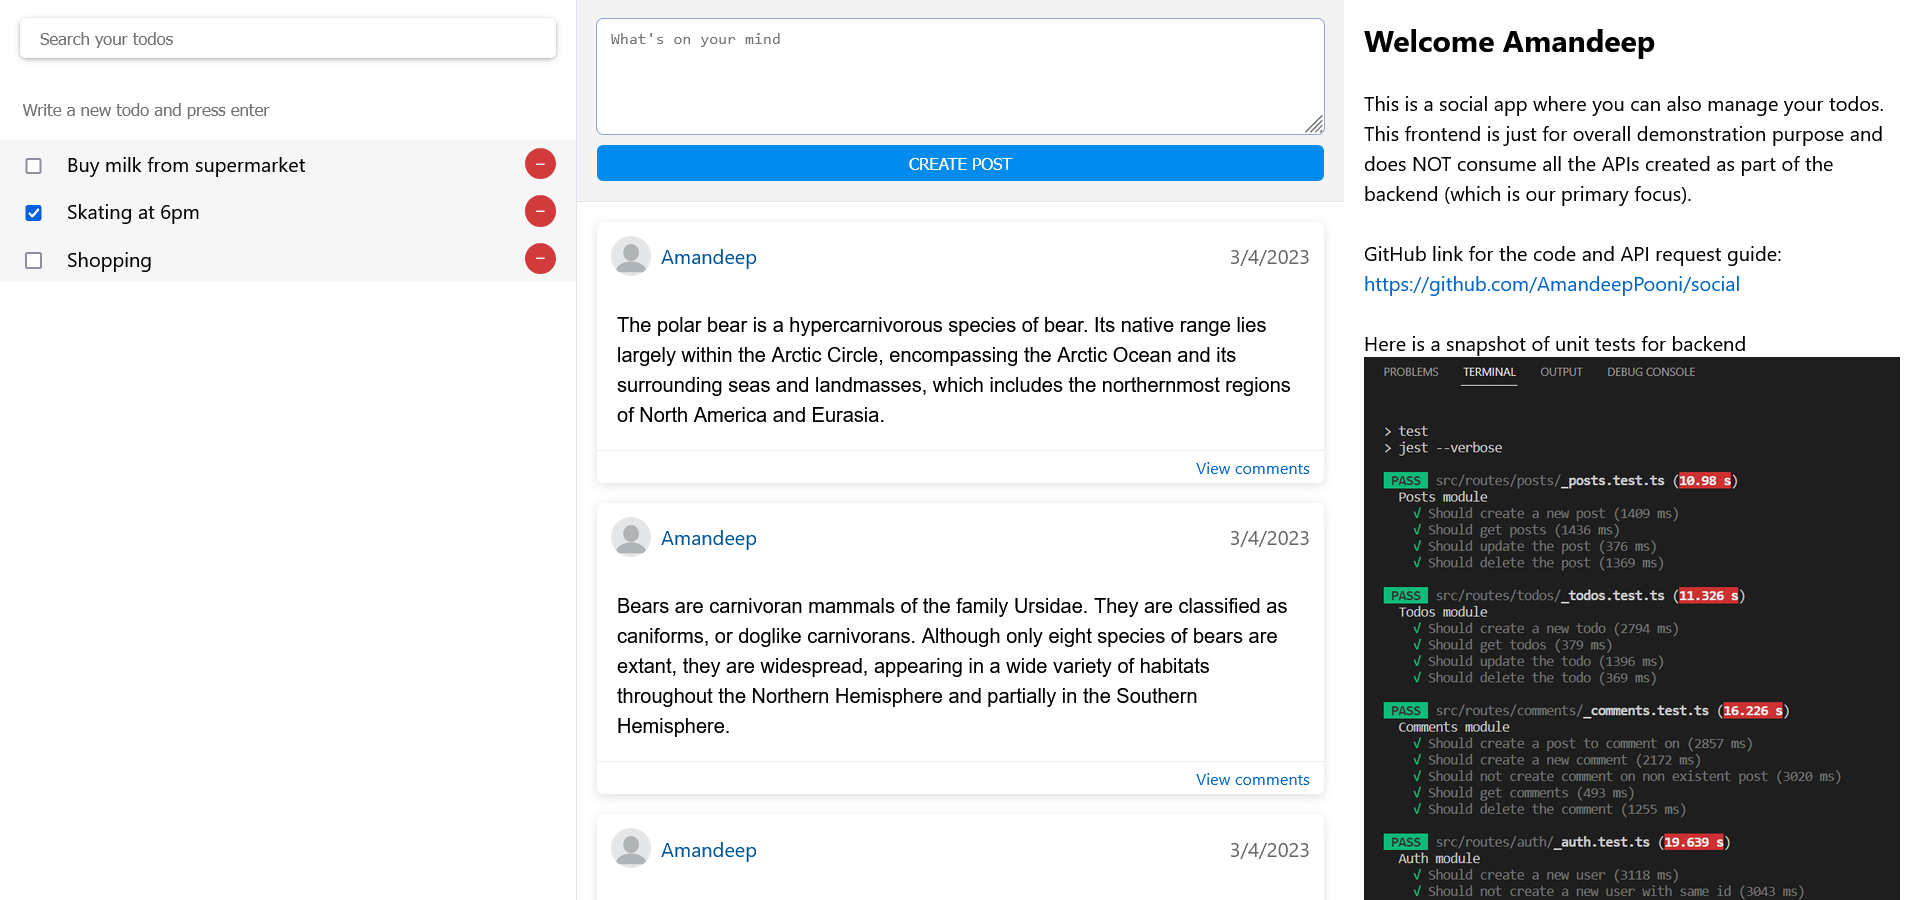
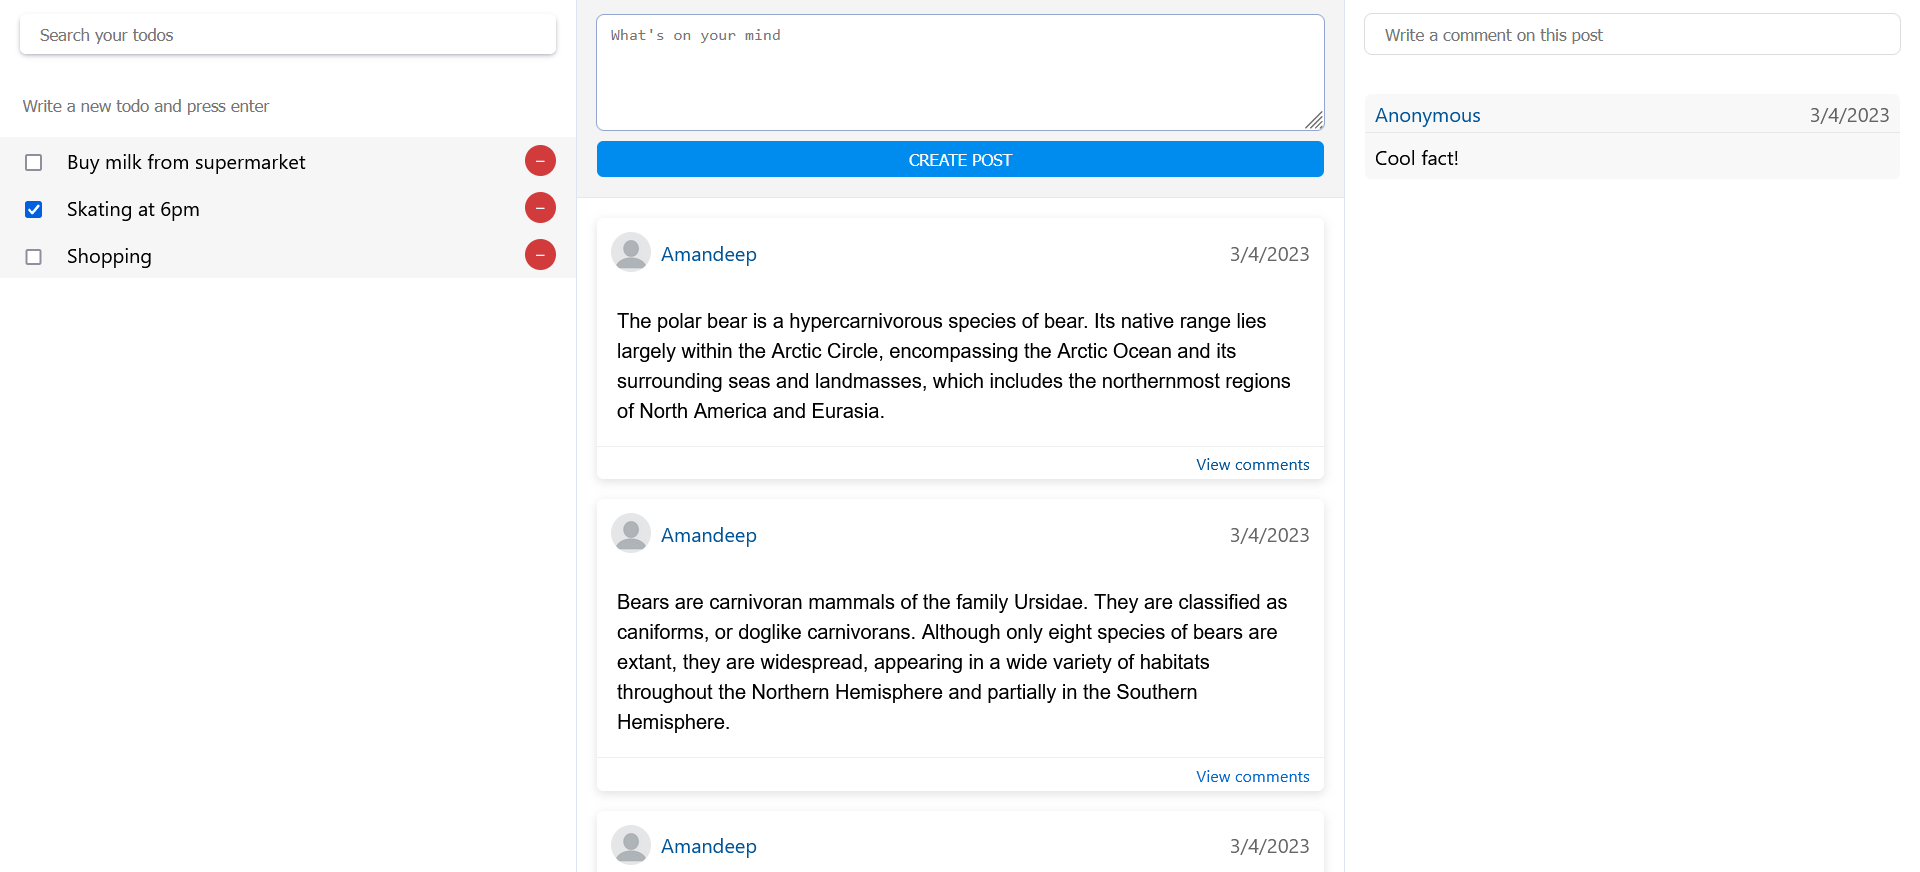
Update readme

diff --git a/frontend/src/pages/Description.vue b/frontend/src/pages/Description.vue
@@ -9,37 +9,31 @@ const userId = inject('userId')
 <template>
   <div class="container">
     <h2>Welcome {{ userId }}</h2>
-    
+
     This is a social app where you can also manage your todos. <br>
-    This frontend is just for overall demonstration purpose and does NOT consume all the APIs created as part of the backend (which is our primary focus).
-    <div><br></div>
     GitHub link for the code and API request guide:<br>
     <a href="https://github.com/AmandeepPooni/social">https://github.com/AmandeepPooni/social</a>
 
-    <div><br></div>
-    Here is a snapshot of unit tests for backend
-    <img src="/tests-screenshot.png" alt="" class="tests-image">
   </div>
 </template>
 
 <style scoped>
 .container {
-    padding: 1rem;
-    display: flex;
-    flex-direction: column;
-    height: 100vh;
-    box-sizing: border-box;
-    overflow: auto;
+  padding: 1rem;
+  display: flex;
+  flex-direction: column;
+  height: 100vh;
+  box-sizing: border-box;
+  overflow: auto;
 }
 
-h2{
-    margin-top: 0;
+h2 {
+  margin-top: 0;
 }
 
 
-.tests-image{
-    width: 100%;
-    object-fit: 0 100%;
+.tests-image {
+  width: 100%;
+  object-fit: 0 100%;
 }
-
 </style>

diff --git a/README.md b/README.md
@@ -1,5 +1,7 @@
 # API endpoints
 
+This is an experimental NodeJS project.
+
 API base URL: https://api-riuwhqsd3q-uc.a.run.app
 
 Sample web app: https://social-to-do.web.app (for the web you can create a new account or use (Amandeep,abc) as credentials)
@@ -200,46 +202,3 @@ true
 
 ## Web app (VueJS)
 ![Home page of sample app](./frontend.png)
-
-# Personal logs during development
-
-## Why separate folder for each route, instead of separate file for each route
-You can and should contain request types within the same file as the request itself and just keep other types separate.\
-Its very tempting to abstract something that we see as repeating, but its important to keep in mind that being reusable should not be the only criteria for abstraction.
-
-For example, if down the road, we want to make a small change to procedures in one route, but that procedure is also being used by other routes, it quickly goes from "code looks cleaner this way" to "just sacrificed 2 days of costly development time for something that could have been done within 10 minutes"
-
-## Why one directional relationship from comments to posts, not other way around or something else?
-
-Document size limit in databases like firestore and mongodb will otherwise limit how much comments you can accomodate in a post.
-
-Firestore however provides a subcollection feature, but general pattern while working with NoSQL databses should be that if we're not able to migrate our architecture from one database to other similar database (For ex. Firestore -> MongoDB), then we need to reconsider that architecture.\
-This assumption makes the overall architecture clean, safe and scalable.
-
-In most usecases, comments should only be visible when user clicks on show comments as it reduces loading overhead and makes the overall app faster. In firestore, fetching a document means that you'll get and be charged for the whole document.
-
-Also, keeping this relationship will help us implement other features in future like replies on comments (Where a reply is just a comment on previous comment).
-
-Implementing security becomes easier, as users who are not the authors of that post will not need to be granted access to the document of a post they are commenting on.
-
-delete all comments feature for user (lets say the user wants that before he deletes the account)
-
-Performing analytics and complex queries becomes harder and harder the more nested any data is.
-
-
-## Decision faced: To put make getComments controller part of comments router, or part of posts controller.
-
-In the end, it will be a business decision. I chose to put all the read and write operations in comments module itself purely because it makes it very easy to do the unit testing, but there are plenty of reasons not to put it within comment module itself:
-
-There can be multiple ways to access the comments that might be needed: by post, by author, by comment id itself and so on, so its more logical to separate the "read" concerns. This will also result in a more sensible URL structure. For ex. "/posts/123/comments" looks like it will return comments for the post "123", and so it will. (right now it looks like "/comments?post=")
-
-
-
-## Refresh tokens
-
-Refresh tokens implemented simply are a security risk. So we are going to rotate them, (Invalidate previous refresh token when generating a new access token).
-
-
-## Caveats for this app (as of now):
-There is no refined exeptional handeling, just where it is absolutely needed. I usually like to spend more time designing exception handling than currently on our hands.\
-No separate integration testing, just unit testing. Hence, middlewares including role based access control are left out of tests.
